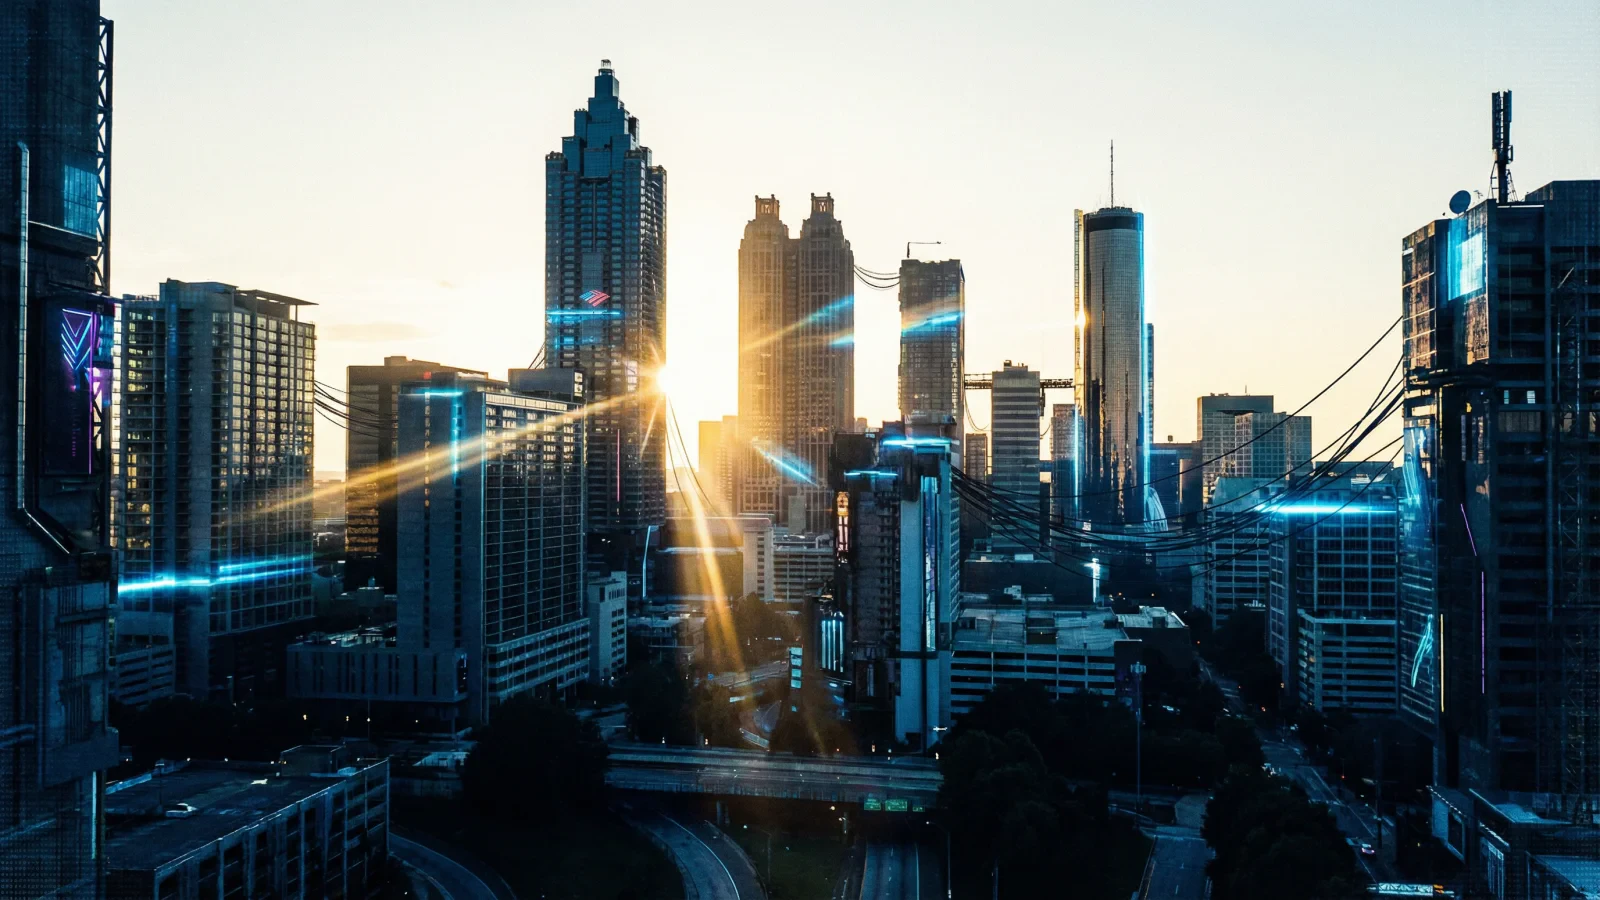
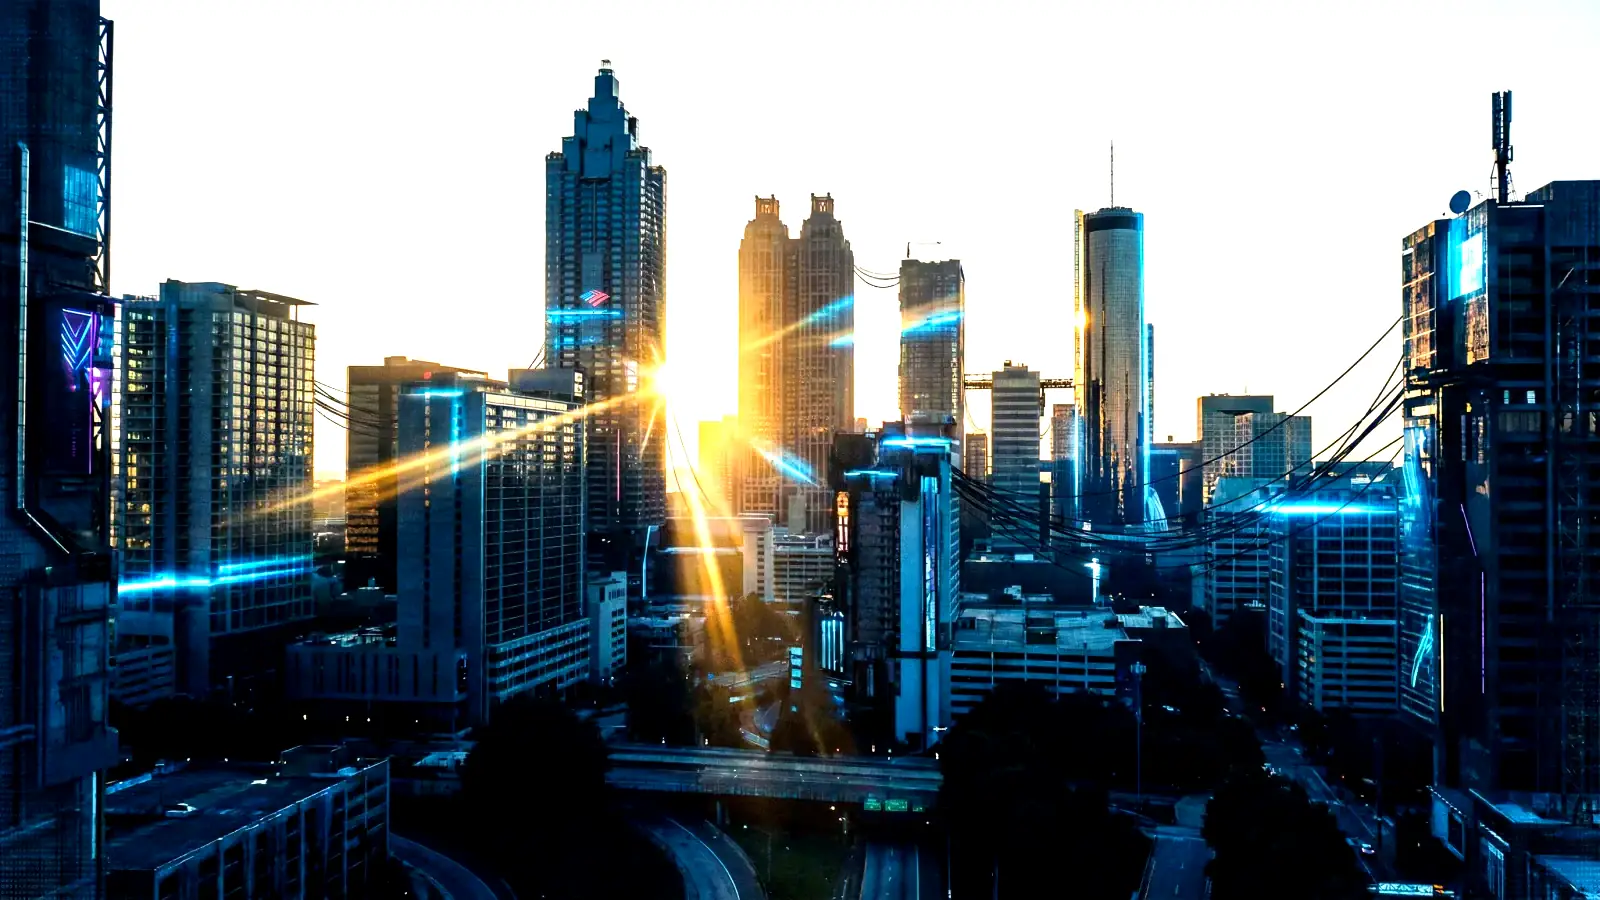
perf(images+render): bake hero filters, fix srcsets, composited animations
- Remove CSS filter from hero img (saturate/contrast/brightness baked into webp)
- Reprocess all images: hero variants correct 16:9, 314KB total savings
- Add srcset+sizes to ai-dashboard (560w sm variant)
- Add will-change-transform to both hero animated divs (fix non-composited LH warning)
- Update both logo instances to 96px sm variant (eliminates 400px oversized decode)
- Remove brightness-[1.12] from ai-dashboard (baked)

diff --git a/src/pages/Home.tsx b/src/pages/Home.tsx
@@ -239,7 +239,7 @@ export default function Home() {
             height="900"
             fetchPriority="high"
             alt="Atlanta skyline hero background"
-            className="h-full w-full object-cover opacity-90 saturate-[1.22] contrast-[1.12] brightness-[1.18]"
+            className="h-full w-full object-cover opacity-90"
           />
           <div className="absolute inset-0 bg-gradient-to-r from-background via-background/52 to-background/18"></div>
           <div className="absolute inset-0 bg-gradient-to-b from-background/18 via-transparent to-background/78"></div>
@@ -249,7 +249,7 @@ export default function Home() {
         </div>
 
         <div className="container relative z-10 grid grid-cols-1 items-center gap-12 lg:grid-cols-12">
-          <div className="animate-in slide-in-from-left-10 space-y-8 pl-4 duration-700 md:pl-12 lg:col-span-7">
+          <div className="animate-in slide-in-from-left-10 will-change-transform space-y-8 pl-4 duration-700 md:pl-12 lg:col-span-7">
             <Badge
               variant="outline"
               className="rounded-none border-primary/50 bg-black/40 px-4 py-1 text-[10px] uppercase tracking-[0.24em] text-primary backdrop-blur-sm"
@@ -311,7 +311,7 @@ export default function Home() {
 
           <div
             id="audit"
-            className="relative animate-in slide-in-from-right-10 duration-700 delay-200 lg:col-span-5"
+            className="relative animate-in slide-in-from-right-10 will-change-transform duration-700 delay-200 lg:col-span-5"
           >
             <div className="absolute -inset-1 rounded-xl bg-gradient-to-r from-primary to-cyan-500 blur opacity-30"></div>
             <Card className="relative border-primary/50 bg-card/80 shadow-2xl backdrop-blur-xl">
@@ -584,10 +584,12 @@ export default function Home() {
                 <div className="absolute -inset-4 rounded-full bg-primary/20 blur-3xl"></div>
                 <img
                   src="/images/ai-dashboard.webp"
+                  srcSet="/images/ai-dashboard-sm.webp 560w, /images/ai-dashboard.webp 900w"
+                  sizes="(max-width: 1024px) 100vw, 50vw"
                   alt="Preview of a sample optimization report"
                   width="900"
                   height="600"
-                  className="relative w-full rounded-xl border border-zinc-800 shadow-2xl brightness-[1.12]"
+                  className="relative w-full rounded-xl border border-zinc-800 shadow-2xl"
                 />
               </div>
             </div>

diff --git a/src/components/Layout.tsx b/src/components/Layout.tsx
@@ -76,7 +76,7 @@ export default function Layout({ children }: { children: React.ReactNode }) {
           <Link href="/" className="group flex min-w-0 items-center gap-2">
             <div className="relative h-6 w-6 shrink-0 overflow-hidden border border-primary/50 transition-colors group-hover:border-primary">
               <img
-                src="/images/badgrtech-logo.webp"
+                src="/images/badgrtech-logo-sm.webp"
                 alt="BADGRTechnologies LLC logo"
                 width="400"
                 height="400"
@@ -188,7 +188,7 @@ export default function Layout({ children }: { children: React.ReactNode }) {
               <div className="flex items-center gap-2">
                 <div className="h-8 w-8 border border-primary/50 p-1">
                   <img
-                    src="/images/badgrtech-logo.webp"
+                    src="/images/badgrtech-logo-sm.webp"
                     alt="BADGRTechnologies LLC logo"
                     className="h-full w-full object-contain"
                   />
